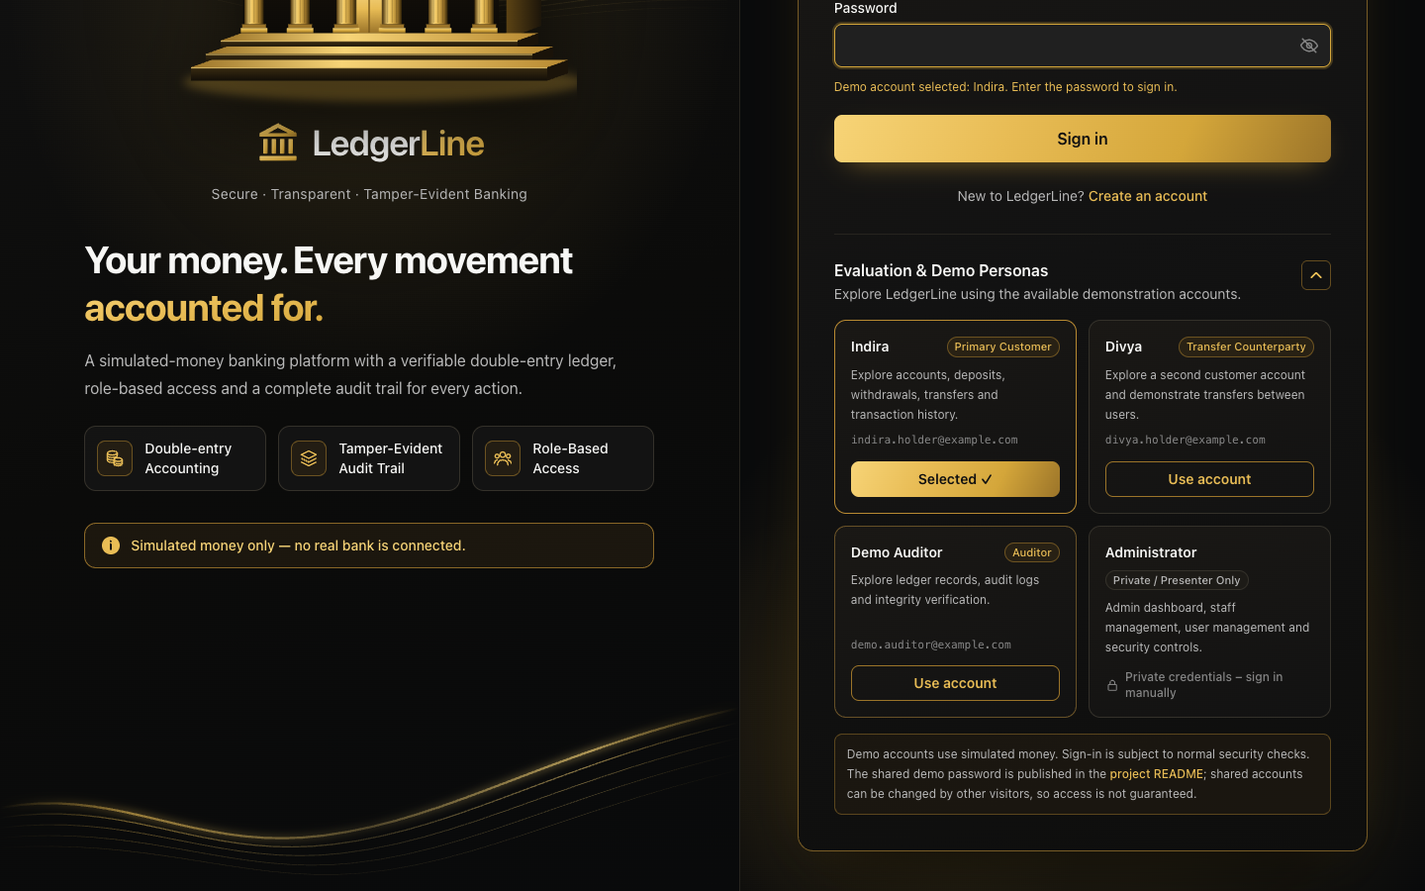
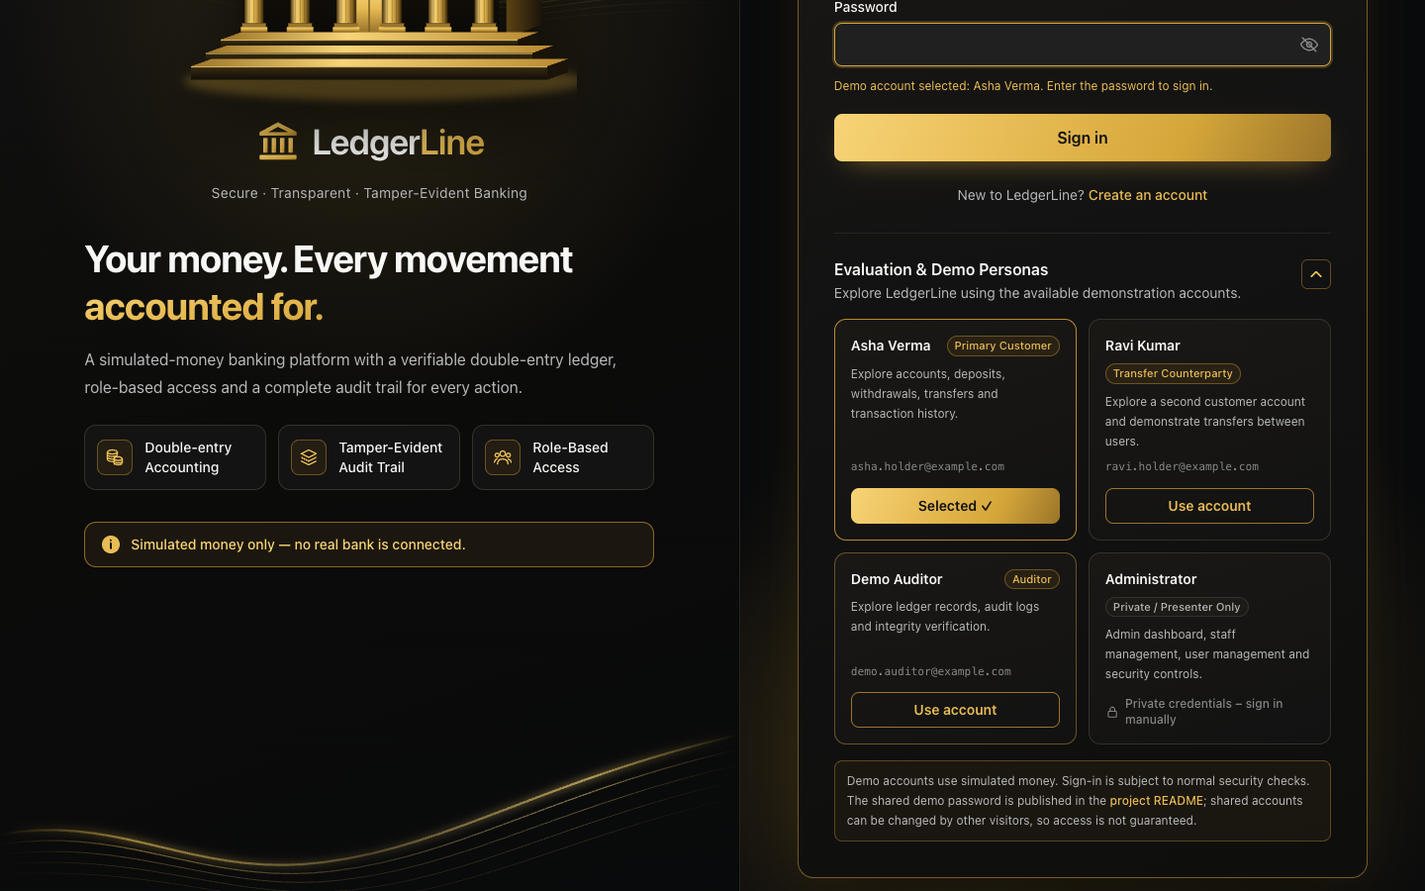
revert: return demo personas to Asha Verma and Ravi Kumar

diff --git a/backend/prisma/seed-demo.js b/backend/prisma/seed-demo.js
@@ -4,11 +4,9 @@
 // - Uses the reserved example.com domain and a dummy password – never real people or data.
 // - Money is moved through the real transaction service (locks, ledger, audit, idempotency),
 //   so the demo ledger is exactly as consistent as real usage.
-// - Safe to run many times: users/accounts are only created once, and each demo GROUP's transactions are created
-//   only if NONE of that group's holders has any transaction yet. (Idempotency keys alone are not enough: they
-//   expire after 24 hours – on production, 2026-11-12, a re-run after that executed all 7 demo operations again.)
-// - Two independent groups: the original Asha/Ravi demo, and the Indira/Divya personas shown on the sign-in page
-//   (added later). An existing Asha/Ravi demo is never touched when the Indira/Divya group is added.
+// - Safe to run many times: users/accounts are only created once, and the demo transactions are created
+//   only if NEITHER demo holder has any transaction yet. (Idempotency keys alone are not enough: they expire
+//   after 24 hours – on production, 2026-11-12, a re-run after that executed all 7 demo operations again.)
 // - On production it runs only when asked: npm run db:prepare:production -- --with-demo
 require('dotenv').config({ quiet: true });
 const crypto = require('crypto');
@@ -24,9 +22,6 @@ const DEMO_PASSWORD = 'DemoPass123'; // dummy – shown in README.md on purpose
 const DEMO_USERS = [
   { key: 'asha', email: 'asha.holder@example.com', fullName: 'Asha Verma', role: 'ACCOUNT_HOLDER', accounts: 2 },
   { key: 'ravi', email: 'ravi.holder@example.com', fullName: 'Ravi Kumar', role: 'ACCOUNT_HOLDER', accounts: 1 },
-  // The sign-in page's "Evaluation & Demo Personas" (frontend/src/config/demoPersonas.js).
-  { key: 'indira', email: 'indira.holder@example.com', fullName: 'Indira Holder', role: 'ACCOUNT_HOLDER', accounts: 2 },
-  { key: 'divya', email: 'divya.holder@example.com', fullName: 'Divya Holder', role: 'ACCOUNT_HOLDER', accounts: 1 },
   { key: 'admin', email: 'demo.admin@example.com', fullName: 'Demo Administrator', role: 'ADMIN', accounts: 0 },
   { key: 'auditor', email: 'demo.auditor@example.com', fullName: 'Demo Auditor', role: 'AUDITOR', accounts: 0 },
 ];
@@ -84,71 +79,42 @@ async function move(user, path, key, body) {
   }
 }
 
-// Each group: its holders, how many accounts each gets, and its fixed demo steps (built once the accounts exist).
-const DEMO_GROUPS = [
-  {
-    name: 'classic', // the original demo – keys and amounts unchanged
-    accounts: { asha: 2, ravi: 1 },
-    steps: ({ asha, ravi }, { asha: [ashaMain, ashaSavings], ravi: [raviMain] }) => [
-      [asha, 'deposit', 'demo-seed-0001-deposit-salary', { accountId: ashaMain.id, amountPaise: 500000n, description: 'Salary' }],
-      [asha, 'deposit', 'demo-seed-0002-deposit-bonus', { accountId: ashaMain.id, amountPaise: 200000n, description: 'Bonus' }],
-      [asha, 'withdraw', 'demo-seed-0003-withdraw-cash', { accountId: ashaMain.id, amountPaise: 100000n, description: 'Cash' }],
-      [asha, 'transfer', 'demo-seed-0004-transfer-ravi', { fromAccountId: ashaMain.id, toAccountId: raviMain.id, amountPaise: 50000n, description: 'Dinner' }],
-      [asha, 'transfer', 'demo-seed-0005-transfer-savings', { fromAccountId: ashaMain.id, toAccountId: ashaSavings.id, amountPaise: 150000n, description: 'Savings' }],
-      [ravi, 'deposit', 'demo-seed-0006-deposit-ravi', { accountId: raviMain.id, amountPaise: 120000n, description: 'Opening deposit' }],
-      // A deliberately refused attempt (₹3,000 from ₹1,700), so the auditor dashboard has something to show.
-      [ravi, 'withdraw', 'demo-seed-0008-withdraw-insufficient', { accountId: raviMain.id, amountPaise: 300000n, description: 'More than the balance' }],
-    ],
-  },
-  {
-    name: 'personas', // Indira (primary customer) and Divya (transfer counterparty) – transfers in both directions
-    accounts: { indira: 2, divya: 1 },
-    steps: ({ indira, divya }, { indira: [indiraMain, indiraSavings], divya: [divyaMain] }) => [
-      [indira, 'deposit', 'demo-seed-0101-indira-salary', { accountId: indiraMain.id, amountPaise: 600000n, description: 'Salary' }],
-      [indira, 'deposit', 'demo-seed-0102-indira-freelance', { accountId: indiraMain.id, amountPaise: 150000n, description: 'Freelance project' }],
-      [indira, 'withdraw', 'demo-seed-0103-indira-groceries', { accountId: indiraMain.id, amountPaise: 50000n, description: 'Groceries' }],
-      [indira, 'transfer', 'demo-seed-0104-indira-to-divya', { fromAccountId: indiraMain.id, toAccountId: divyaMain.id, amountPaise: 75000n, description: 'Shared rent' }],
-      [indira, 'transfer', 'demo-seed-0105-indira-savings', { fromAccountId: indiraMain.id, toAccountId: indiraSavings.id, amountPaise: 200000n, description: 'Savings' }],
-      [divya, 'deposit', 'demo-seed-0106-divya-opening', { accountId: divyaMain.id, amountPaise: 250000n, description: 'Opening deposit' }],
-      [divya, 'transfer', 'demo-seed-0107-divya-to-indira', { fromAccountId: divyaMain.id, toAccountId: indiraMain.id, amountPaise: 30000n, description: 'Movie tickets' }],
-    ],
-  },
-];
+// `demoUsers` can be replaced (tests use unique emails). Returns what happened, for the tests.
+async function seedDemo({ demoUsers = defaultUsers(), log = console.log } = {}) {
+  const users = {};
+  for (const u of demoUsers) users[u.key] = await ensureUser(u);
+  const [ashaMain, ashaSavings] = await ensureAccounts(users.asha, 2);
+  const [raviMain] = await ensureAccounts(users.ravi, 1);
 
-// Creates one group's accounts and – exactly once – its demo transactions.
-async function seedGroup(group, users, log) {
-  const holders = Object.keys(group.accounts).map((key) => users[key]);
-  const accounts = {};
-  for (const [key, count] of Object.entries(group.accounts)) accounts[key] = await ensureAccounts(users[key], count);
+  const asha = users.asha;
+  const ravi = users.ravi;
 
-  // Created exactly once – whether the fixed keys still exist, have expired or were cleaned up.
-  // Any transaction by one of the group's holders (an earlier seed, or a visitor using the public demo login) means: done.
-  const existing = await prisma.transaction.count({ where: { initiatedById: { in: holders.map((h) => h.id) } } });
+  // Created exactly once – whether the fixed keys below still exist, have expired or were cleaned up.
+  // Any transaction by a demo holder (from an earlier seed, or a visitor using the public demo login) means: done.
+  const existing = await prisma.transaction.count({ where: { initiatedById: { in: [asha.id, ravi.id] } } });
   if (existing > 0) {
-    log(`Demo transactions (${group.name}): skipped – these demo holders already have ${existing} transaction(s).`);
-    return { transactions: 'skipped', existing };
+    log(`Demo transactions: skipped – the demo holders already have ${existing} transaction(s).`);
+    return { users, transactions: 'skipped', existing };
   }
 
+  const steps = [
+    [asha, 'deposit', 'demo-seed-0001-deposit-salary', { accountId: ashaMain.id, amountPaise: 500000n, description: 'Salary' }],
+    [asha, 'deposit', 'demo-seed-0002-deposit-bonus', { accountId: ashaMain.id, amountPaise: 200000n, description: 'Bonus' }],
+    [asha, 'withdraw', 'demo-seed-0003-withdraw-cash', { accountId: ashaMain.id, amountPaise: 100000n, description: 'Cash' }],
+    [asha, 'transfer', 'demo-seed-0004-transfer-ravi', { fromAccountId: ashaMain.id, toAccountId: raviMain.id, amountPaise: 50000n, description: 'Dinner' }],
+    [asha, 'transfer', 'demo-seed-0005-transfer-savings', { fromAccountId: ashaMain.id, toAccountId: ashaSavings.id, amountPaise: 150000n, description: 'Savings' }],
+    [ravi, 'deposit', 'demo-seed-0006-deposit-ravi', { accountId: raviMain.id, amountPaise: 120000n, description: 'Opening deposit' }],
+    // A deliberately refused attempt (₹3,000 from ₹1,700), so the auditor dashboard has something to show.
+    [ravi, 'withdraw', 'demo-seed-0008-withdraw-insufficient', { accountId: raviMain.id, amountPaise: 300000n, description: 'More than the balance' }],
+  ];
+
   const results = [];
-  for (const [user, path, key, body] of group.steps(users, accounts)) {
+  for (const [user, path, key, body] of steps) {
     const outcome = await move(user, path, key, body);
     results.push(outcome);
     log(`${path.padEnd(8)} ${key.padEnd(34)} → ${outcome}`);
   }
-  return { transactions: 'created', results };
-}
-
-// `demoUsers` can be replaced (tests use unique emails). A group runs only if all of its holders are in `demoUsers`.
-// Returns what happened per group, for the tests.
-async function seedDemo({ demoUsers = defaultUsers(), log = console.log } = {}) {
-  const users = {};
-  for (const u of demoUsers) users[u.key] = await ensureUser(u);
-
-  const groups = {};
-  for (const group of DEMO_GROUPS) {
-    if (Object.keys(group.accounts).every((key) => users[key])) groups[group.name] = await seedGroup(group, users, log);
-  }
-  return { users, groups };
+  return { users, transactions: 'created', results };
 }
 
 async function main() {

diff --git a/backend/tests/integration/seedDemo.test.js b/backend/tests/integration/seedDemo.test.js
@@ -10,25 +10,17 @@ const { productionSteps } = require('../../scripts/prepare-production-db');
 afterAll(disconnectAll);
 
 // Unique demo users per test, so the test database's other data never matters.
-// classic = the original Asha/Ravi demo; personas = Indira/Divya (sign-in page "Evaluation & Demo Personas").
-const demoUsers = ({ personas = true } = {}) => {
+const demoUsers = () => {
   const id = crypto.randomUUID().slice(0, 8);
   return [
     { key: 'asha', email: `asha-${id}@example.com`, fullName: 'Asha Test', role: 'ACCOUNT_HOLDER' },
     { key: 'ravi', email: `ravi-${id}@example.com`, fullName: 'Ravi Test', role: 'ACCOUNT_HOLDER' },
-    ...(personas
-      ? [
-          { key: 'indira', email: `indira-${id}@example.com`, fullName: 'Indira Test', role: 'ACCOUNT_HOLDER' },
-          { key: 'divya', email: `divya-${id}@example.com`, fullName: 'Divya Test', role: 'ACCOUNT_HOLDER' },
-        ]
-      : []),
   ];
 };
 const quiet = () => {};
-const GROUP_KEYS = { classic: ['asha', 'ravi'], personas: ['indira', 'divya'] };
 
-async function stateOf(users, group) {
-  const ids = GROUP_KEYS[group].map((key) => users[key].id);
+async function stateOf(users) {
+  const ids = [users.asha.id, users.ravi.id];
   const accounts = await prisma.account.findMany({ where: { ownerId: { in: ids } }, orderBy: { accountNumber: 'asc' } });
   return {
     transactions: await prisma.transaction.count({ where: { initiatedById: { in: ids } } }),
@@ -36,32 +28,13 @@ async function stateOf(users, group) {
     balances: accounts.map((a) => a.balance.toString()),
   };
 }
-const balanceOf = async (user, index) =>
-  (await prisma.account.findMany({ where: { ownerId: user.id }, orderBy: { createdAt: 'asc' } }))[index].balance.toString();
 
-test('first run: classic demo has 6 transactions + 1 refused withdrawal; Indira/Divya get 7 transactions', async () => {
+test('first run: 6 demo transactions, and the deliberately refused withdrawal is refused', async () => {
   const run = await seedDemo({ demoUsers: demoUsers(), log: quiet });
-  expect(run.groups.classic.transactions).toBe('created');
-  expect(run.groups.classic.results.filter((r) => r === 'created')).toHaveLength(6);
-  expect(run.groups.classic.results[6]).toBe('refused (INSUFFICIENT_FUNDS)');
-  expect((await stateOf(run.users, 'classic')).transactions).toBe(6);
-
-  expect(run.groups.personas.transactions).toBe('created');
-  expect(run.groups.personas.results).toEqual(Array(7).fill('created'));
-  expect((await stateOf(run.users, 'personas')).transactions).toBe(7);
-  // Indira: 6,000 + 1,500 − 500 − 750 − 2,000 + 300 = ₹4,550 (main) and ₹2,000 (savings); Divya: 2,500 + 750 − 300 = ₹2,950.
-  expect(await balanceOf(run.users.indira, 0)).toBe('455000');
-  expect(await balanceOf(run.users.indira, 1)).toBe('200000');
-  expect(await balanceOf(run.users.divya, 0)).toBe('295000');
-});
-
-test('Indira and Divya are onboarded account holders, like the other demo holders', async () => {
-  const run = await seedDemo({ demoUsers: demoUsers(), log: quiet });
-  for (const key of ['indira', 'divya']) {
-    const user = await prisma.user.findUnique({ where: { id: run.users[key].id }, include: { profile: true } });
-    expect(user).toMatchObject({ role: 'ACCOUNT_HOLDER', onboardingStatus: 'APPROVED', isActive: true });
-    expect(user.profile).not.toBeNull();
-  }
+  expect(run.transactions).toBe('created');
+  expect(run.results.filter((r) => r === 'created')).toHaveLength(6);
+  expect(run.results[6]).toBe('refused (INSUFFICIENT_FUNDS)');
+  expect((await stateOf(run.users)).transactions).toBe(6);
 });
 
 test.each([
@@ -72,45 +45,27 @@ test.each([
   ['after the idempotency keys were DELETED', async (ids) => {
     await prisma.idempotencyKey.deleteMany({ where: { userId: { in: ids } } });
   }],
-])('re-run %s → nothing new in either group: no transaction, no audit record, balances unchanged', async (_, prepare) => {
+])('re-run %s → nothing new: no transaction, no audit record, balances unchanged', async (_, prepare) => {
   const users = demoUsers();
   const first = await seedDemo({ demoUsers: users, log: quiet });
-  const before = { classic: await stateOf(first.users, 'classic'), personas: await stateOf(first.users, 'personas') };
-  await prepare(Object.values(first.users).map((u) => u.id));
+  const before = await stateOf(first.users);
+  await prepare([first.users.asha.id, first.users.ravi.id]);
 
   const again = await seedDemo({ demoUsers: users, log: quiet });
-  expect(again.groups.classic).toMatchObject({ transactions: 'skipped', existing: 6 });
-  expect(again.groups.personas).toMatchObject({ transactions: 'skipped', existing: 7 });
-  expect({ classic: await stateOf(again.users, 'classic'), personas: await stateOf(again.users, 'personas') }).toEqual(before);
+  expect(again).toMatchObject({ transactions: 'skipped', existing: 6 });
+  expect(await stateOf(again.users)).toEqual(before);
 });
 
-test('adding Indira/Divya to an existing Asha/Ravi demo leaves Asha and Ravi untouched', async () => {
-  const classicOnly = demoUsers({ personas: false });
-  const first = await seedDemo({ demoUsers: classicOnly, log: quiet });
-  expect(first.groups).not.toHaveProperty('personas'); // a group runs only when all its holders are given
-  const before = await stateOf(first.users, 'classic');
-
-  const withPersonas = [...classicOnly, ...demoUsers().slice(2)];
-  const run = await seedDemo({ demoUsers: withPersonas, log: quiet });
-  expect(run.groups.classic).toMatchObject({ transactions: 'skipped', existing: 6 });
-  expect(run.groups.personas.transactions).toBe('created');
-  expect(run.users.asha.id).toBe(first.users.asha.id);
-  expect(await stateOf(run.users, 'classic')).toEqual(before);
-});
-
-test.each([
-  ['asha', 'classic'],
-  ['indira', 'personas'],
-])('a demo holder (%s) who already used the app is not seeded on top', async (key, group) => {
+test('a demo holder who already used the app (public demo login, no seed ever ran) is not seeded on top', async () => {
   const users = demoUsers();
   // The "visitor": an onboarded holder with the demo email, one account and one deposit made through the API.
   const visitor = await createUser();
-  await prisma.user.update({ where: { id: visitor.user.id }, data: { email: users.find((u) => u.key === key).email } });
+  await prisma.user.update({ where: { id: visitor.user.id }, data: { email: users[0].email } });
   const account = await createAccount(visitor);
   expect((await deposit(visitor, account.id, 1000)).status).toBe(201);
 
   const run = await seedDemo({ demoUsers: users, log: quiet });
-  expect(run.groups[group]).toMatchObject({ transactions: 'skipped', existing: 1 });
+  expect(run).toMatchObject({ transactions: 'skipped', existing: 1 });
   expect(await prisma.transaction.count({ where: { initiatedById: visitor.user.id } })).toBe(1);
 });
 

diff --git a/frontend/src/config/demoPersonas.js b/frontend/src/config/demoPersonas.js
@@ -1,8 +1,7 @@
 // Evaluation & demo personas shown on the sign-in page.
 //
 // Each card's `email` is an existing public demo user created by backend/prisma/seed-demo.js and listed in README.md
-// ("Demo credentials"). Indira Holder and Divya Holder are real demo users (seed group "personas"), so the name on the
-// card matches the name shown after signing in. The original Asha/Ravi demo users still exist but are not shown here.
+// ("Demo credentials"). The card names are the demo users' real names, so they match the name shown after signing in.
 //
 // Deliberately NO passwords here – the visitor types the password, and normal sign-in security
 // (rate limits, account lockout) applies. The administrator has no public login: the public demo admin is
@@ -10,17 +9,17 @@
 export const DEMO_PERSONAS = [
   {
     id: 'customer-primary',
-    name: 'Indira',
+    name: 'Asha Verma',
     badge: 'Primary Customer',
     description: 'Explore accounts, deposits, withdrawals, transfers and transaction history.',
-    email: 'indira.holder@example.com',
+    email: 'asha.holder@example.com',
   },
   {
     id: 'customer-counterparty',
-    name: 'Divya',
+    name: 'Ravi Kumar',
     badge: 'Transfer Counterparty',
     description: 'Explore a second customer account and demonstrate transfers between users.',
-    email: 'divya.holder@example.com',
+    email: 'ravi.holder@example.com',
   },
   {
     id: 'auditor',

diff --git a/README.md b/README.md
@@ -11,7 +11,7 @@
 ![PostgreSQL](https://img.shields.io/badge/PostgreSQL-17%20%2F%2018-d4a63a?style=flat-square&labelColor=101112)
 ![Prisma 6](https://img.shields.io/badge/Prisma-6-d4a63a?style=flat-square&labelColor=101112)
 ![Redis](https://img.shields.io/badge/Redis-rate%20limits-d4a63a?style=flat-square&labelColor=101112)
-![Tests](https://img.shields.io/badge/backend%20tests-439-4cd47b?style=flat-square&labelColor=101112)
+![Tests](https://img.shields.io/badge/backend%20tests-436-4cd47b?style=flat-square&labelColor=101112)
 
 </div>
 
@@ -297,25 +297,21 @@ lockout apply.
 
 | Card label | Signs in as (existing public demo account) | Role |
 |---|---|---|
-| Indira — Primary Customer | `indira.holder@example.com` (Indira Holder) | Account holder |
-| Divya — Transfer Counterparty | `divya.holder@example.com` (Divya Holder) | Account holder |
+| Asha Verma — Primary Customer | `asha.holder@example.com` | Account holder |
+| Ravi Kumar — Transfer Counterparty | `ravi.holder@example.com` | Account holder |
 | Demo Auditor | `demo.auditor@example.com` | Auditor |
 | Administrator — Private / Presenter Only | no public login | Administrator |
 
-Indira Holder and Divya Holder are real demo users created by the demo seed (with onboarding, accounts and transfers between them),
-so the name on the card is also the name shown after signing in. The administrator has no public demo login on the deployed site.
-Shared demo accounts can be changed by any visitor, so their availability is not guaranteed.
-
-> **Deployment status:** the Indira and Divya demo users exist in local development so far. Until the demo seed has also been run
-> on the deployed database, the live site's persona cards should keep pointing at the original demo accounts below.
+The card names are the demo users' real names, so they match the name shown after signing in. The administrator has no public demo
+login on the deployed site. Shared demo accounts can be changed by any visitor, so their availability is not guaranteed.
 
 ## 11. Testing and verification
 
-**Automated test suites** (all run locally on 2026-11-13: backend 439/439, browser 35/35, frontend units 16/16, build and lint clean):
+**Automated test suites** (all run locally on 2026-11-13: backend 436/436, browser 35/35, frontend units 16/16, build and lint clean):
 
 | Command (folder) | Covers | Result |
 |---|---|---|
-| `npm test` (backend) | Jest + Supertest on a separate test database: auth, authorization, accounts, transactions, **financial integrity**, **idempotency**, **concurrency**, ledger tampering, rate limits in Redis (incl. Redis down), readiness, bootstrap, database roles, onboarding, admin / user / staff management, audit hash chain and security events, demo seed (no duplicates) | **439 tests** |
+| `npm test` (backend) | Jest + Supertest on a separate test database: auth, authorization, accounts, transactions, **financial integrity**, **idempotency**, **concurrency**, ledger tampering, rate limits in Redis (incl. Redis down), readiness, bootstrap, database roles, onboarding, admin / user / staff management, audit hash chain and security events, demo seed (no duplicates) | **436 tests** |
 | `npm run test:e2e` (frontend) | Playwright in Chrome: registration, login, roles, money forms, history, lost-response retry, onboarding, admin dashboard, staff lifecycle, audit verification, password rules, mobile layout | **35 tests** |
 | `npm test` (frontend) | amount parsing (no floating point), validation, error messages, idempotency keys | **16 tests** |
 | `npm run smoke` (backend) | end-to-end API check against a running dev server | **61 checks** |
@@ -448,15 +444,12 @@ instead of embedding it.
 
 | Role | Email | Password |
 |---|---|---|
-| Account holder – Indira Holder (persona card) | `indira.holder@example.com` | `DemoPass123` |
-| Account holder – Divya Holder (persona card) | `divya.holder@example.com` | `DemoPass123` |
-| Account holder – Asha Verma (original demo) | `asha.holder@example.com` | `DemoPass123` |
-| Account holder – Ravi Kumar (original demo) | `ravi.holder@example.com` | `DemoPass123` |
+| Account holder – Asha Verma (persona card) | `asha.holder@example.com` | `DemoPass123` |
+| Account holder – Ravi Kumar (persona card) | `ravi.holder@example.com` | `DemoPass123` |
 | Auditor | `demo.auditor@example.com` | `DemoPass123` |
 | Administrator | `demo.admin@example.com` – **local development only** | `DemoPass123` |
 
-The demo seed works in two independent groups – the original Asha/Ravi demo and the Indira/Divya personas – and each group's demo
-transactions are created only once (a re-run, even after the idempotency keys expired, adds nothing).
+The demo seed creates its demo transactions only once – a re-run, even after the idempotency keys expired, adds nothing.
 The public demo admin is never created on the deployed site (`db:prepare:production` sets `SEED_DEMO_ADMIN=false`); the real first
 administrator is created once with `npm run admin:bootstrap` (password typed at a hidden prompt, never printed or stored). Further admins
 and auditors are created in the app under **Staff → Add staff member**. **Never use the demo accounts for real data.**
@@ -469,7 +462,7 @@ and auditors are created in the app under **Staff → Add staff member**. **Neve
 - **Least-privilege production database access** — the API runs as a role that cannot change the schema or disable protections.
 - **Tamper-evident audit history** — SHA-256 hash chain with a gapless sequence, verifiable from the auditor dashboard.
 - **Three role-specific interfaces** — customer, administrator and read-only auditor, with server-side authorization everywhere.
-- **Verified, not assumed** — 439 backend, 35 browser and 16 frontend unit tests, mutation tests of key safeguards, migration rehearsals,
+- **Verified, not assumed** — 436 backend, 35 browser and 16 frontend unit tests, mutation tests of key safeguards, migration rehearsals,
   and recorded production checks (17/17 database, 29/29 live).
 
 ## 19. Project documentation

diff --git a/docs/RESUME_PROJECT.md b/docs/RESUME_PROJECT.md
@@ -28,13 +28,13 @@ Jest · Supertest · Playwright · Vercel · Render · Neon
 - Implemented idempotent, concurrency-safe money movement (idempotency keys claimed inside the database transaction, row-level locking
   in a fixed order, deadlock retry), plus role-based access for customers, administrators and auditors, Redis-backed rate limiting with
   account lockout, and a SHA-256 hash-chained, tamper-evident audit log.
-- Deployed on Vercel, Render and Neon with a least-privilege database role and readiness checks; verified with 439 backend tests,
+- Deployed on Vercel, Render and Neon with a least-privilege database role and readiness checks; verified with 436 backend tests,
   35 Playwright browser tests, mutation tests of key safeguards, and recorded production checks (17/17 database, 29/29 live).
 
 ## 5. Two-line version
 
 Full-stack simulated banking platform (React, Express, PostgreSQL, Redis) with a database-enforced double-entry ledger, idempotent and
-concurrency-safe transfers, role-based admin/auditor tools and a tamper-evident audit trail; deployed on Vercel/Render/Neon with 439 backend tests.
+concurrency-safe transfers, role-based admin/auditor tools and a tamper-evident audit trail; deployed on Vercel/Render/Neon with 436 backend tests.
 
 ## 6. LinkedIn / portfolio version
 
@@ -47,7 +47,7 @@ keys inside the database transaction), simultaneous withdrawals can't overdraw (
 hash-chained so any change to past records is detected. Sign-in is protected by Redis rate limiting and account lockout, and the API runs
 as a database role that cannot change the schema.
 
-The app is deployed on Vercel (React, Black & Gold UI), Render (Express API) and Neon (PostgreSQL), and is verified by 439 backend tests,
+The app is deployed on Vercel (React, Black & Gold UI), Render (Express API) and Neon (PostgreSQL), and is verified by 436 backend tests,
 35 browser tests and recorded production checks.
 
 ## 7. 30-second interview explanation
@@ -57,4 +57,4 @@ all balances always add up to zero, and PostgreSQL itself refuses anything that 
 transaction or an edited history row. I handled the classic failures: a retried request can't pay twice because of idempotency keys,
 and two withdrawals at the same moment can't overdraw because of row locking — I proved that with concurrency tests. It has separate
 customer, admin and auditor roles, a hash-chained audit log, Redis rate limiting, and it's deployed on Vercel, Render and Neon with
-439 backend tests and live production checks."
+436 backend tests and live production checks."
